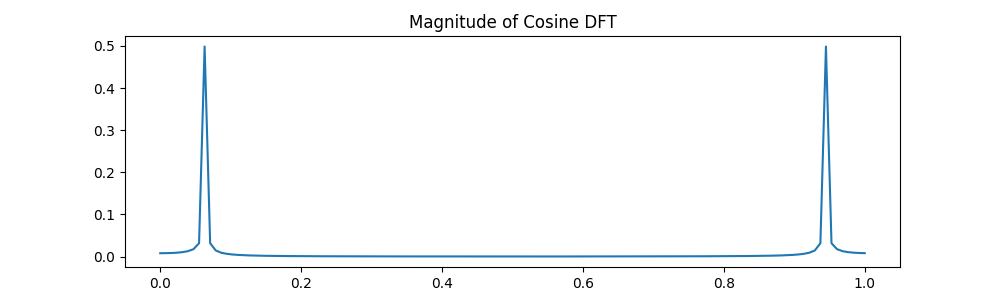
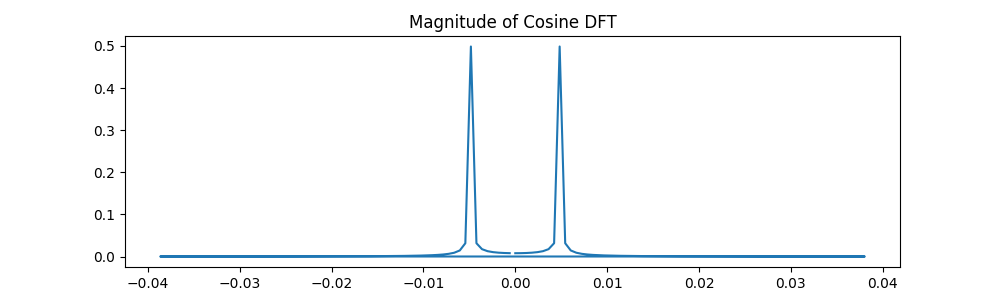
Added center function, tested

diff --git a/experiment_1.py b/experiment_1.py
@@ -1,6 +1,7 @@
 import numpy as np
 import matplotlib.pyplot as plt
 import math
+from helpers import magnitude, phase, center_spectrum
 
 outfile_path = "Experiment_1"
 #Part 1.a
@@ -8,9 +9,6 @@ f = [2, 3, 4, 4]
 
 f_transformed = np.fft.fft(f, norm='forward')
 f_reverse_transform = np.fft.ifft(f_transformed, norm='forward')
-
-# print(f_transformed)
-# print(f_reverse_transform)
 
 #Part 1.b
 cos_sample_size = 128
@@ -39,16 +37,18 @@ plt.savefig(f"{outfile_path}\Sampled_Cosine.png")
 
 #compute DFT of cos function
 cos_dft = np.fft.fft(cos_samples, norm='forward')
+u_sample_step = 1/(cos_samples[1]-cos_samples[0])
+cos_dft_freq = np.fft.fftfreq(cos_dft.size, d=u_sample_step)
 
 #plot real
 plt.figure(figsize=(10, 3))
-plt.plot(sample_points, cos_dft.real)
+plt.plot(cos_dft_freq, cos_dft.real)
 plt.title("Cosine DFT Real")
 plt.savefig(f"{outfile_path}\Cosine_DFT_Real.png")
 
 #plot imaginary
 plt.figure(figsize=(10, 3))
-plt.plot(sample_points, cos_dft.imag)
+plt.plot(cos_dft_freq, cos_dft.imag)
 plt.title("Cosine DFT Imaginary")
 plt.savefig(f"{outfile_path}\Cosine_DFT_Imaginary.png")
 
@@ -65,13 +65,13 @@ for real, imag in zip(cos_dft.real, cos_dft.imag):
 
 #plot mag
 plt.figure(figsize=(10, 3))
-plt.plot(sample_points, cos_mag)
+plt.plot(cos_dft_freq, cos_mag)
 plt.title("Magnitude of Cosine DFT")
 plt.savefig(f"{outfile_path}\Cosine_DFT_Mag.png")
 
 #plot phase
 plt.figure(figsize=(10, 3))
-plt.plot(sample_points, cos_phase)
+plt.plot(cos_dft_freq, cos_phase)
 plt.title("Phase of Cosine DFT")
 plt.savefig(f"{outfile_path}\Cosine_DFT_Phase.png")
 

diff --git a/helpers.py b/helpers.py
@@ -1,0 +1,25 @@
+import math
+import numpy as np
+
+def magnitude(dft):
+    mag_list = []
+    for real, imag in zip(dft.real, dft.imag):
+        mag = math.sqrt(real**2+imag**2)
+        mag_list.append(mag)
+
+    return mag_list
+
+def phase(dft):
+    phase_list = []
+    for real, imag in zip(dft.real, dft.imag):
+        phase = math.atan(imag/real)
+        phase_list.append(phase)
+
+    return phase_list
+
+def center_spectrum(signal: np.ndarray):
+    centered_signal = np.empty_like(signal)
+    for x in range(signal.size):
+        centered_signal[x] = ((-1)**x)*signal[x]
+
+    return centered_signal
